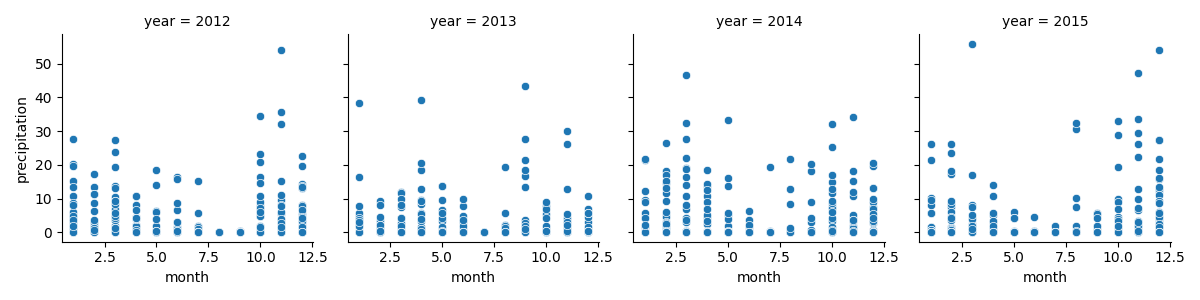
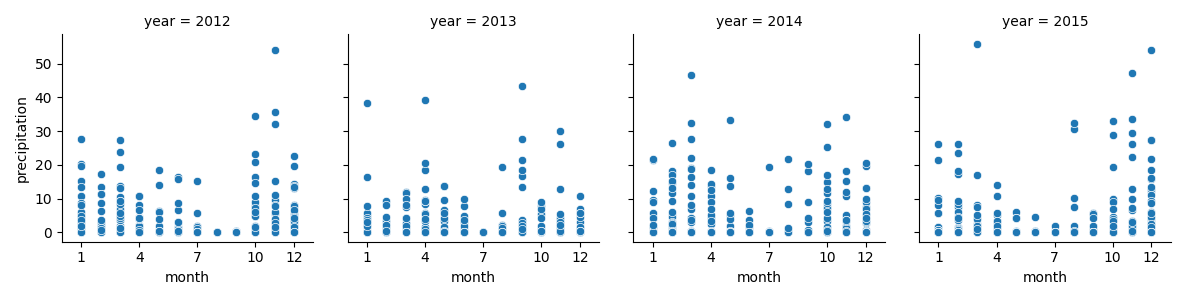
weather-forecast updated plots to not show float months

diff --git a/main.py b/main.py
@@ -77,6 +77,10 @@ def temp_max_facegrid_lineplot(df: pd.DataFrame):
     """
     grid = sns.FacetGrid(df, col='year')
     grid.map(sns.lineplot, 'month', 'temp_max')
+    for ax in grid.axes.flat:
+        ax.set_xticks([1,4,7,10,12])
+        ax.set_xlim(1,12)
+
     plt.show()
 
 
@@ -87,6 +91,9 @@ def temp_min_facegrid_lineplot(df: pd.DataFrame):
     """
     grid = sns.FacetGrid(df, col='year')
     grid.map(sns.lineplot, 'month', 'temp_min')
+    for ax in grid.axes.flat:
+        ax.set_xticks([1,4,7,10,12])
+        ax.set_xlim(1,12)
     plt.show()
 
 
@@ -97,6 +104,9 @@ def precipitation_facegrid_scatterplot(dataframe: pd.DataFrame):
     """
     grid = sns.FacetGrid(dataframe, col='year')
     grid.map(sns.scatterplot, 'month', 'precipitation')
+    for ax in grid.axes.flat:
+        ax.set_xticks([1,4,7,10,12])
+        ax.set_xlim(0,13)
     plt.show()
 
 
@@ -123,7 +133,9 @@ def weather_piechart(df: pd.DataFrame):
     plt.show()
 
 def lr_predictor_random_split(df: pd.DataFrame):
-    """ TODO:
+    """ Linear Regression Predictor
+    This function makes a random split of data and trains a linear regression model
+    The split is .8 train - .2 test
     """
     dependent_variable = df['temp_max']
     features = df[['date', 'year', 'month', 'temp_min', 'precipitation', 'wind']]
@@ -149,7 +161,8 @@ def lr_predictor_random_split(df: pd.DataFrame):
 
 
 def lr_predictor_default_split(df: pd.DataFrame):
-    """ TODO:
+    """Linear Regression Predictor
+    This function trains the model using the first 1300 entries in the dataframe and tests it on the rest
     """
     dependent_variable = df['temp_max']
     features = df[['date', 'year', 'month', 'temp_min', 'precipitation', 'wind']]
@@ -173,7 +186,9 @@ def lr_predictor_default_split(df: pd.DataFrame):
 
 
 def svr_predictor_default_split(df: pd.DataFrame):
-    """ TODO:
+    """ SVR prediction model
+    This function makes a random split of data and trains a linear regression model
+    The split is .8 train - .2 test
     """
     dependent_variable = df['temp_max']
     features = df[['date', 'year', 'month', 'temp_min', 'precipitation', 'wind']]
@@ -192,7 +207,6 @@ def svr_predictor_default_split(df: pd.DataFrame):
     plt.plot(x_test_plot, prediction_plot)
     plt.scatter(x_test_plot, prediction_plot)
     plt.show()
-    #print(reg.coef_)
     print(f"Mean Squared Error: {mean_squared_error(y_test, Y_predicted)}")
     print(f"r2 score: {r2_score(y_test, Y_predicted)}")
 
@@ -204,7 +218,8 @@ def main():
     df['date'] = pd.to_datetime(df['date'])
     df.insert(1, "year", df['date'].dt.year, True)
     df.insert(2, "month", df['date'].dt.month, True)
-    svr_predictor_default_split(df)
+    #svr_predictor_default_split(df)
+    precipitation_facegrid_scatterplot(df)
 
 
 if __name__ == '__main__':
